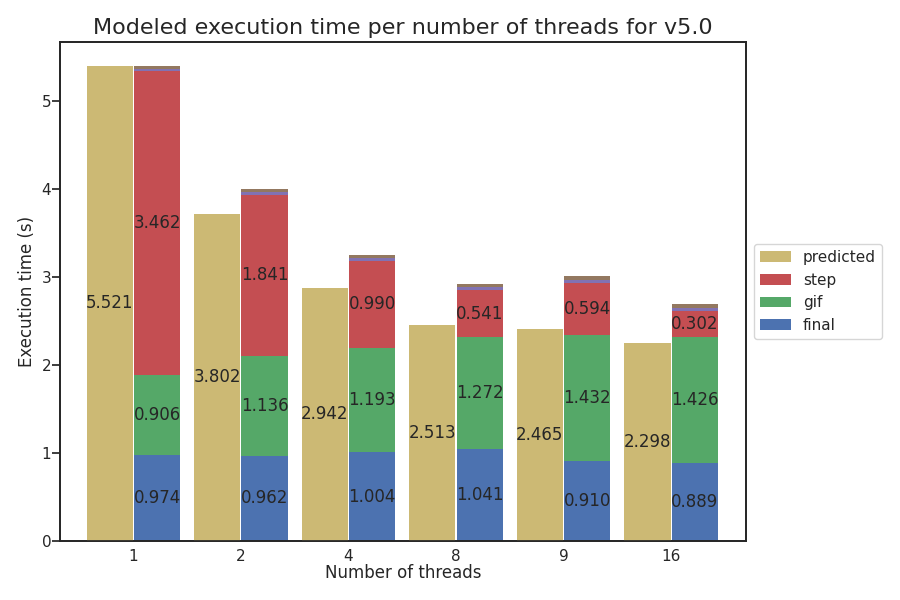
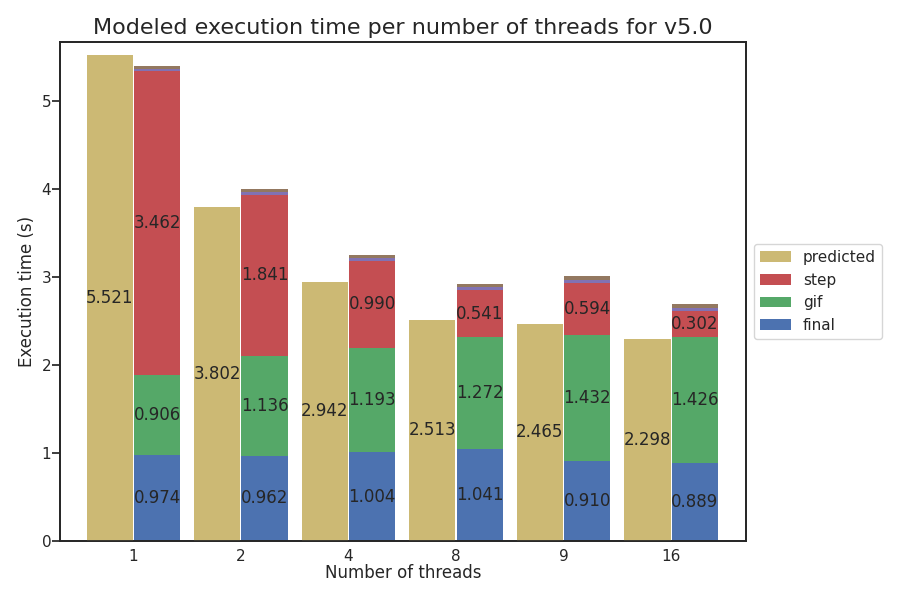
Fixed model scaling figures

diff --git a/profiler/generate_model_scaling.py b/profiler/generate_model_scaling.py
@@ -83,7 +83,13 @@ def gen_scaling_plot():
                             aggfunc="std")
 
     # Create DataFrame with predicted values according to the model.
-    model_func = lambda t: 3.438 / int(t) + 0.950 + 1.133
+    model_func = None
+    if int(results_folder[9:10]) == 5:
+        model_func = lambda t: 3.438 / int(t) + 0.950 + 1.133
+    elif int(results_folder[9:10]) == 6:
+        model_func = lambda t: max(3.438 / (int(t) - 1), 0.950) + 1.133
+    else:
+        model_func = lambda t: t
 
     rows = []
     for t in threads:
@@ -145,6 +151,9 @@ def gen_scaling_plot():
     handles.extend(handles2)
     labels.extend(labels2)
 
+    # Fix 2nd axis.
+    ymin, ymax = ax.get_ylim()
+    ax2.set_ylim((ymin, ymax))
     ax2.tick_params(left=False, labelleft=False, top=False, labeltop=False,
                     right=False, labelright=False, bottom=False, labelbottom=False)
 
@@ -170,7 +179,7 @@ def gen_scaling_plot():
         width, height = p.get_width(), p.get_height()
 
         if int(results_folder[9:10]) >= 6 and i >= len(threads * 2):
-            height = height/20 - 0.7
+            height = height/20 - 0.6
 
         x, y = p.get_xy()
         ax.text(x+width/2,
